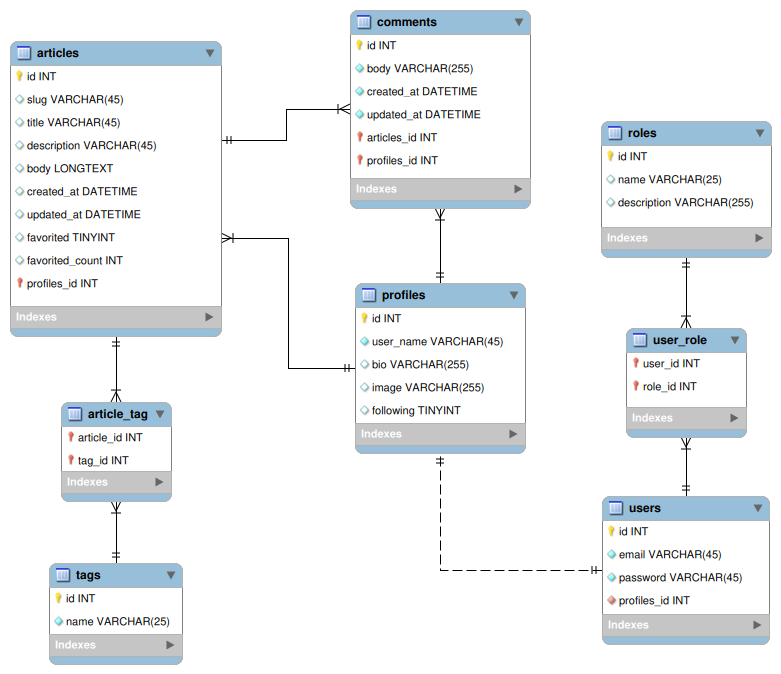
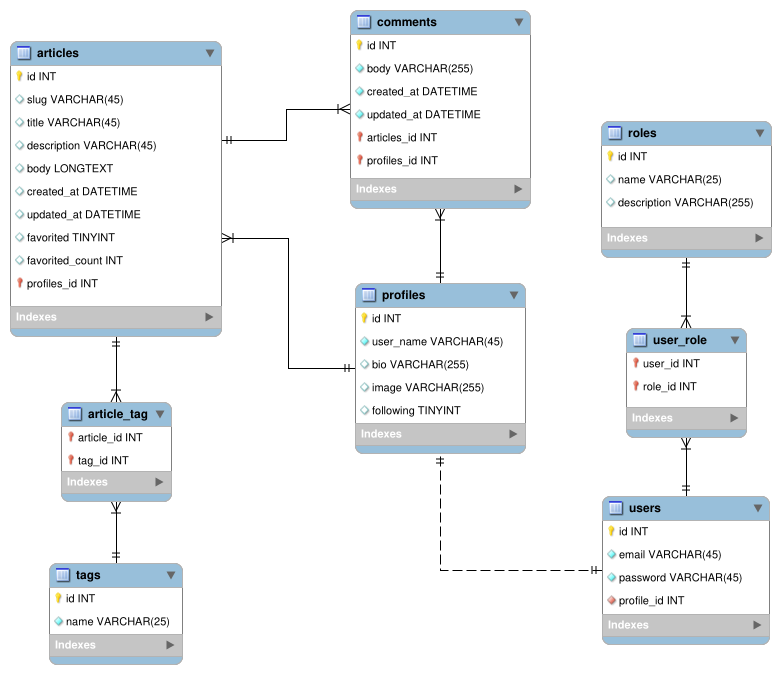
Actualiza modelo de datos

diff --git a/src/main/java/tk/monkeycode/blogapi/model/User.java b/src/main/java/tk/monkeycode/blogapi/model/User.java
@@ -2,6 +2,7 @@ package tk.monkeycode.blogapi.model;
 
 import java.util.List;
 
+import javax.persistence.CascadeType;
 import javax.persistence.Column;
 import javax.persistence.Entity;
 import javax.persistence.FetchType;
@@ -10,6 +11,7 @@ import javax.persistence.GenerationType;
 import javax.persistence.Id;
 import javax.persistence.JoinTable;
 import javax.persistence.ManyToMany;
+import javax.persistence.OneToOne;
 import javax.persistence.Table;
 import javax.persistence.JoinColumn;
 
@@ -32,7 +34,11 @@ public class User {
 	@Column(length = 45, nullable = false)
 	private String password;
 	
-	@ManyToMany(fetch = FetchType.EAGER)
+	@OneToOne
+    @JoinColumn(name = "profile_id", referencedColumnName = "id")
+	private Profile profile;
+	
+	@ManyToMany
     @JoinTable(name = "user_role",
                joinColumns = @JoinColumn(name = "user_id", referencedColumnName = "id"),
                inverseJoinColumns = @JoinColumn(name = "role_id", referencedColumnName = "id"))

diff --git a/src/main/java/tk/monkeycode/blogapi/model/Profile.java b/src/main/java/tk/monkeycode/blogapi/model/Profile.java
@@ -5,6 +5,7 @@ import javax.persistence.Entity;
 import javax.persistence.GeneratedValue;
 import javax.persistence.GenerationType;
 import javax.persistence.Id;
+import javax.persistence.OneToOne;
 import javax.persistence.Table;
 
 import lombok.Data;
@@ -23,5 +24,8 @@ public class Profile {
 	private String bio;
 	private String image;
 	private boolean following;
+	
+	@OneToOne(mappedBy = "profile")
+	private User user;
 	
 }
